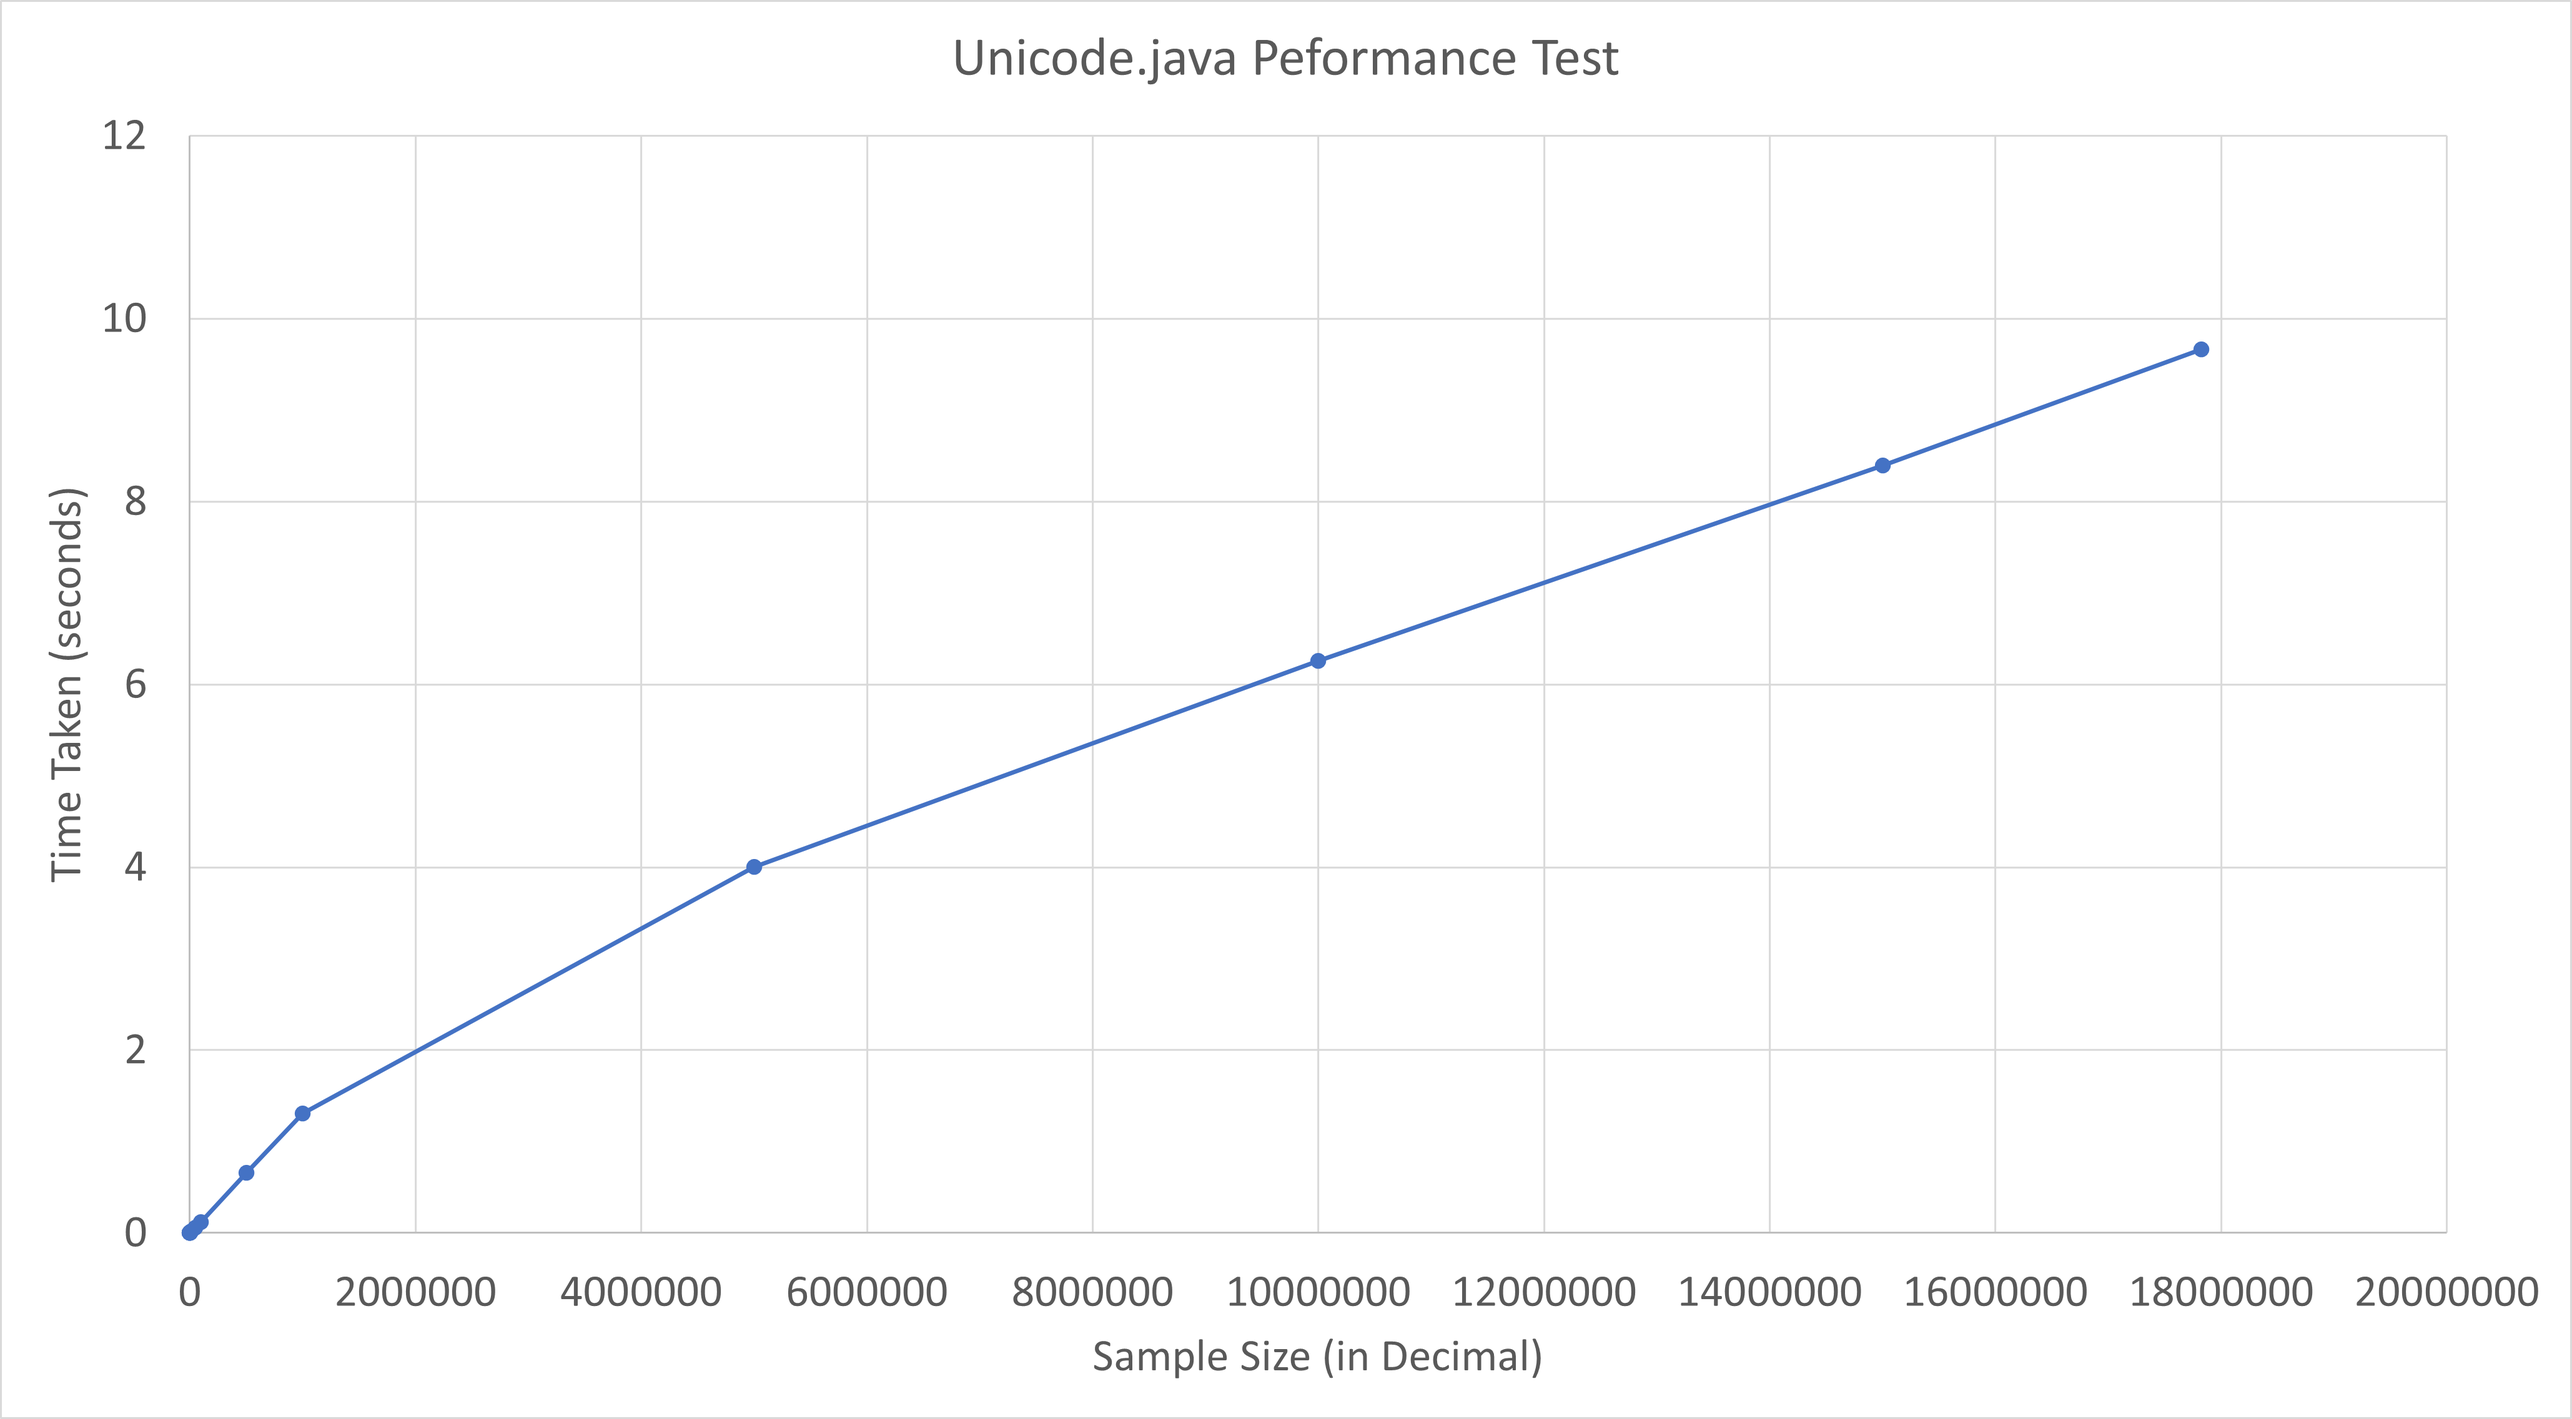
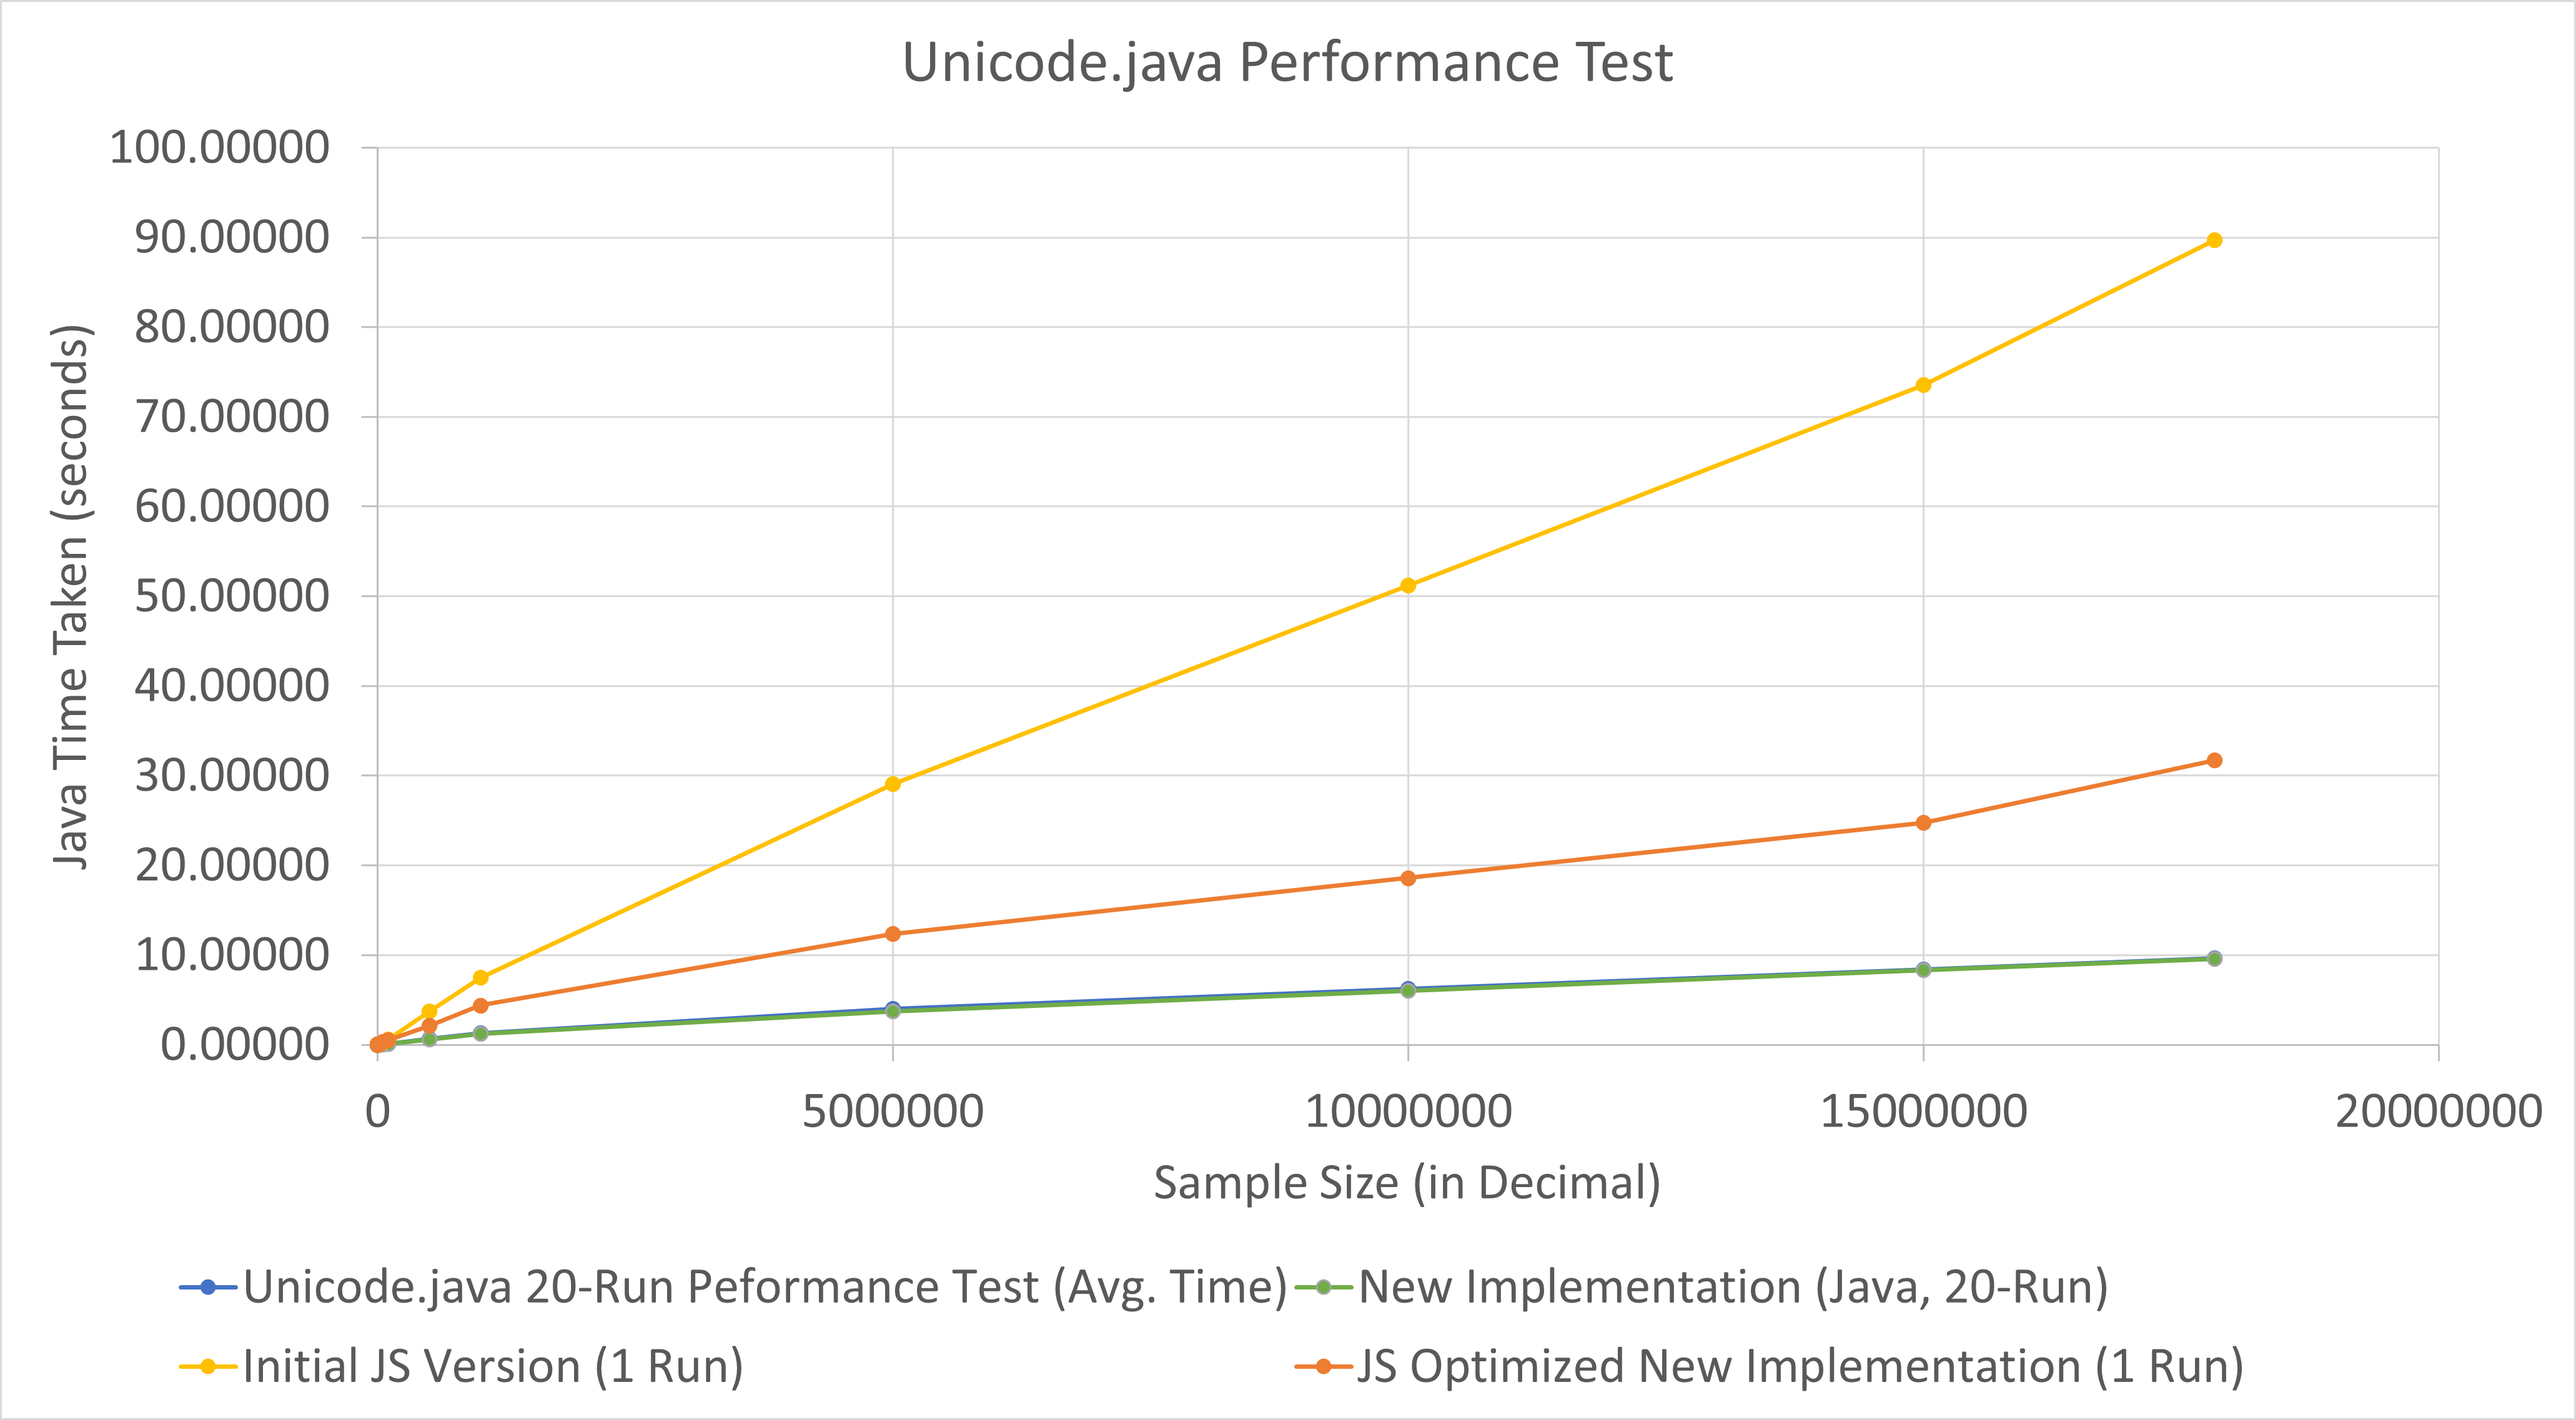
Peformance improvement under works

diff --git a/Simulation_JS/Main_Brute.js b/Simulation_JS/Main_Brute.js
@@ -5,29 +5,43 @@ import {Unicode} from './Unicode.js'
 let c = new Checker();
 let u = new Unicode();
 
+//TEST MODE
+var short = false;
+var max = 10;
+
 //LONG TEST
-var start = ["0","0","0","0","0","0","0","0","0","0","0","0","0","0","0","0"];
-var end = ["1","A","32","64","1F4","3E8","1388","2710","C350","186A0","7A120","F4240","4C4B40","989680","E4E1C0","10FFFFF"];
+var start = new Array();
+var end = new Array();
+start = ["0","0","0","0","0","0","0","0","0","0","0","0","0","0","0","0"];
+end = ["1","A","32","64","1F4","3E8","1388","2710","C350","186A0","7A120","F4240","4C4B40","989680","E4E1C0","10FFFFF"];
 var time = [0,0,0,0,0,0,0,0,0,0,0,0,0,0,0,0];
 
 //SHORT TEST
-//var time = [0,0,0,0,0,0];
-//var start = ["0","0","0","0","0","0"];
-//var end = ["1","A","32","64","1F4","3E8"];
+if(short){
+    time = new Array(max);
+    for(var i = 0; i < max; i++)
+        time[i] = 0;
+    start = start.slice(0,max);
+    end = end.slice(0,max);
+}
 
-var runs = 5;
-console.log("start: " + start);
-console.log("end: " + end);
+var runs = 1;
+console.log("Start: " + start);
+console.log("End: " + end);
+console.log("Runs: " + runs);
+console.log("Running...");
 for(var i = 1; i <= runs; i++){
     for(var j = 0; j < start.length; j++){
+        console.log("Run: " + i + "/" + runs + ", " + start[j] + " - " + end[j]);
         var startDate = new Date();
         for(var k = parseInt(start[j], 16); k <= parseInt(end[j],16); k++)
             u.SetUnicode(k.toString(16));
         var endDate   = new Date();
-        console.log(((endDate - startDate) / 1000) + "s");
+        //console.log(((endDate - startDate) / 1000) + "s");
         time[j] = time[j] + ((endDate - startDate) / 1000);
     }
 }
+console.log("Benchmark complete!");
 for(var j = 0; j < start.length; j++)
-        time[j] = time[j] / runs;
-    console.log(time);
+        time[j] = time[j] / runs    ;
+    console.log(time + ""); // + "");

diff --git a/Simulation_JS/Unicode.js b/Simulation_JS/Unicode.js
@@ -9,13 +9,13 @@
  * 
  */
 
-class Unicode{
+ class Unicode{
 	TestUnicode(){
         console.log("Unicode online!");
 	}
 	
     constructor(){
-
+        this.TestUnicode();
     }
     /**
      * Sets new Unicode value for conversion to equivalent UTF8,-16,-32, and char values.
@@ -239,16 +239,18 @@ class Unicode{
      * @returns Label value of the given input (7,11,16,or 21)
      */
     findLabel(size){
-        if(size === 1) //1byte
-            return 7;
-        if(size === 2) //2bytes
-            return 11;
-        if(size === 3) //3bytes
-            return 16;
-        if(size === 4) //4bytes
-            return 21;
-        
-        return -1; //assumes invalid input
+        switch(size) {
+            case 1:
+                return 7;
+            case 2:
+                return 11;
+            case 3:
+                return 16;
+            case 4:
+                return 21;
+            default:
+                return -1;
+        }
     }
 
     /**
@@ -305,12 +307,17 @@ class Unicode{
         }
         //iterate through the constants and input char indexes
         for(var i = 0; i < range; i++) {
-            if(indexRef[idx][i] === -2) //constant -1
-                output += "0";
-            else if(indexRef[idx][i] === -1) //constant 0
-                output += "1";
-            else
-                output += input.charAt(indexRef[idx][i]) + ""; //input(idx)
+            switch(indexRef[idx][i]) {
+				case -2:
+					output += "0";
+					break;
+				case -1:
+					output += "1";
+					break;
+				default:
+					output += input.charAt(indexRef[idx][i]) + "";
+					break;
+			}
         }
         return output;
     }

diff --git a/Simulation_JS/Checker.js b/Simulation_JS/Checker.js
@@ -5,13 +5,13 @@
  * prior to conversion to equivalent UTF value.
  */
 
-class Checker{
+ class Checker{
     TestChecker(){
         console.log("Checker online!");
     }
 
     constructor(){
-
+        this.TestChecker();
     }
     /**
      * Checks and validates input value if allowed to be 

diff --git a/Simulation_JS/Main_Terminal.js b/Simulation_JS/Main_Terminal.js
@@ -1,4 +1,4 @@
-import {Checker} from './Checker.js';
+import {Checker} from './Checker.js'
 import {Unicode} from './Unicode.js'
 
 //TEST AREA
